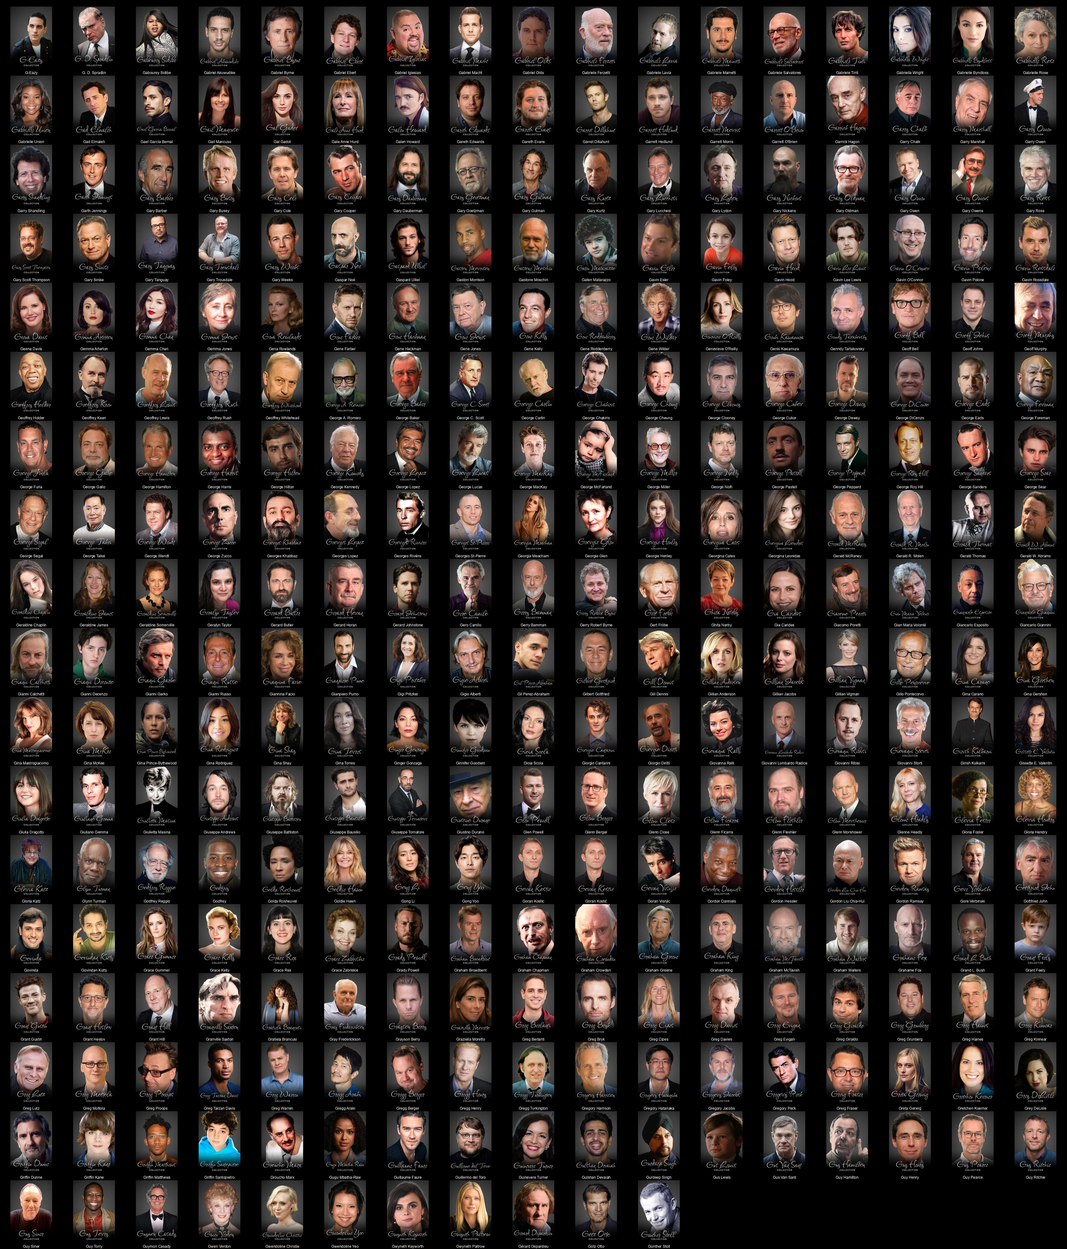
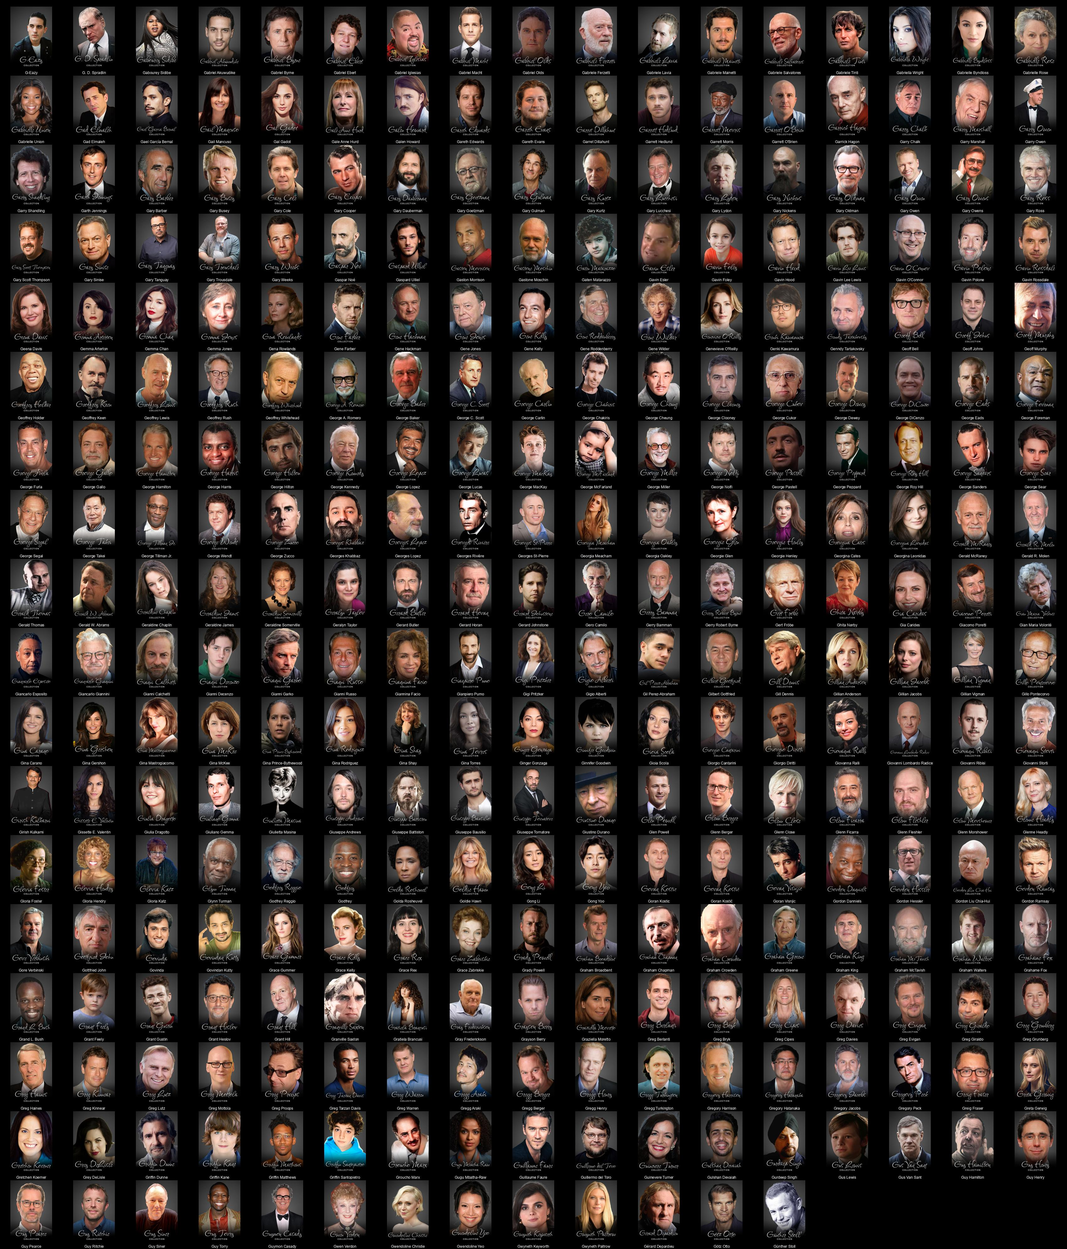
Readme Update

Changed region(s): [[0.0, 0.3739, 0.9976, 1.0]]

diff --git a/README.md b/README.md
@@ -1,15 +1,16 @@
-# Plex Meta Manager People - Signature (signature) (8616 Images)
+# Plex Meta Manager People - Signature (signature) (8627 Images)
 
 <details><summary><a href="'">' (1 Images)</a></summary>
 
 * ['Weird Al' Yankovic](https://raw.githubusercontent.com/meisnate12/Plex-Meta-Manager-People-signature/master/'/Images/%27Weird%20Al%27%20Yankovic.jpg)
 </details>
-<details><summary><a href="A">A (710 Images)</a></summary>
+<details><summary><a href="A">A (711 Images)</a></summary>
 
 * [Aamir Khan](https://raw.githubusercontent.com/meisnate12/Plex-Meta-Manager-People-signature/master/A/Images/Aamir%20Khan.jpg)
 * [Aanand L. Rai](https://raw.githubusercontent.com/meisnate12/Plex-Meta-Manager-People-signature/master/A/Images/Aanand%20L.%20Rai.jpg)
 * [Aaron Ashmore](https://raw.githubusercontent.com/meisnate12/Plex-Meta-Manager-People-signature/master/A/Images/Aaron%20Ashmore.jpg)
 * [Aaron Beelner](https://raw.githubusercontent.com/meisnate12/Plex-Meta-Manager-People-signature/master/A/Images/Aaron%20Beelner.jpg)
+* [Aaron Burns](https://raw.githubusercontent.com/meisnate12/Plex-Meta-Manager-People-signature/master/A/Images/Aaron%20Burns.jpg)
 * [Aaron Eckhart](https://raw.githubusercontent.com/meisnate12/Plex-Meta-Manager-People-signature/master/A/Images/Aaron%20Eckhart.jpg)
 * [Aaron Haynes](https://raw.githubusercontent.com/meisnate12/Plex-Meta-Manager-People-signature/master/A/Images/Aaron%20Haynes.jpg)
 * [Aaron Hilmer](https://raw.githubusercontent.com/meisnate12/Plex-Meta-Manager-People-signature/master/A/Images/Aaron%20Hilmer.jpg)
@@ -2812,7 +2813,7 @@
 * [Fritz Lang](https://raw.githubusercontent.com/meisnate12/Plex-Meta-Manager-People-signature/master/F/Images/Fritz%20Lang.jpg)
 * [Frédéric North](https://raw.githubusercontent.com/meisnate12/Plex-Meta-Manager-People-signature/master/F/Images/Fr%C3%A9d%C3%A9ric%20North.jpg)
 </details>
-<details><summary><a href="G">G (300 Images)</a></summary>
+<details><summary><a href="G">G (302 Images)</a></summary>
 
 * [G-Eazy](https://raw.githubusercontent.com/meisnate12/Plex-Meta-Manager-People-signature/master/G/Images/G-Eazy.jpg)
 * [G. D. Spradlin](https://raw.githubusercontent.com/meisnate12/Plex-Meta-Manager-People-signature/master/G/Images/G.%20D.%20Spradlin.jpg)
@@ -2935,6 +2936,7 @@
 * [George Sear](https://raw.githubusercontent.com/meisnate12/Plex-Meta-Manager-People-signature/master/G/Images/George%20Sear.jpg)
 * [George Segal](https://raw.githubusercontent.com/meisnate12/Plex-Meta-Manager-People-signature/master/G/Images/George%20Segal.jpg)
 * [George Takei](https://raw.githubusercontent.com/meisnate12/Plex-Meta-Manager-People-signature/master/G/Images/George%20Takei.jpg)
+* [George Tillman Jr.](https://raw.githubusercontent.com/meisnate12/Plex-Meta-Manager-People-signature/master/G/Images/George%20Tillman%20Jr..jpg)
 * [George Wendt](https://raw.githubusercontent.com/meisnate12/Plex-Meta-Manager-People-signature/master/G/Images/George%20Wendt.jpg)
 * [George Zucco](https://raw.githubusercontent.com/meisnate12/Plex-Meta-Manager-People-signature/master/G/Images/George%20Zucco.jpg)
 * [Georges Khabbaz](https://raw.githubusercontent.com/meisnate12/Plex-Meta-Manager-People-signature/master/G/Images/Georges%20Khabbaz.jpg)
@@ -2942,6 +2944,7 @@
 * [Georges Rivière](https://raw.githubusercontent.com/meisnate12/Plex-Meta-Manager-People-signature/master/G/Images/Georges%20Rivi%C3%A8re.jpg)
 * [Georges St-Pierre](https://raw.githubusercontent.com/meisnate12/Plex-Meta-Manager-People-signature/master/G/Images/Georges%20St-Pierre.jpg)
 * [Georgia Meacham](https://raw.githubusercontent.com/meisnate12/Plex-Meta-Manager-People-signature/master/G/Images/Georgia%20Meacham.jpg)
+* [Georgia Oakley](https://raw.githubusercontent.com/meisnate12/Plex-Meta-Manager-People-signature/master/G/Images/Georgia%20Oakley.jpg)
 * [Georgie Glen](https://raw.githubusercontent.com/meisnate12/Plex-Meta-Manager-People-signature/master/G/Images/Georgie%20Glen.jpg)
 * [Georgie Henley](https://raw.githubusercontent.com/meisnate12/Plex-Meta-Manager-People-signature/master/G/Images/Georgie%20Henley.jpg)
 * [Georgina Cates](https://raw.githubusercontent.com/meisnate12/Plex-Meta-Manager-People-signature/master/G/Images/Georgina%20Cates.jpg)
@@ -3422,7 +3425,7 @@
 * [Izaac Wang](https://raw.githubusercontent.com/meisnate12/Plex-Meta-Manager-People-signature/master/I/Images/Izaac%20Wang.jpg)
 * [Izabella Scorupco](https://raw.githubusercontent.com/meisnate12/Plex-Meta-Manager-People-signature/master/I/Images/Izabella%20Scorupco.jpg)
 </details>
-<details><summary><a href="J">J (1067 Images)</a></summary>
+<details><summary><a href="J">J (1069 Images)</a></summary>
 
 * [J'Dvonte](https://raw.githubusercontent.com/meisnate12/Plex-Meta-Manager-People-signature/master/J/Images/J%27Dvonte.jpg)
 * [J. A. Bayona](https://raw.githubusercontent.com/meisnate12/Plex-Meta-Manager-People-signature/master/J/Images/J.%20A.%20Bayona.jpg)
@@ -3573,6 +3576,7 @@
 * [James Marsden](https://raw.githubusercontent.com/meisnate12/Plex-Meta-Manager-People-signature/master/J/Images/James%20Marsden.jpg)
 * [James Marsters](https://raw.githubusercontent.com/meisnate12/Plex-Meta-Manager-People-signature/master/J/Images/James%20Marsters.jpg)
 * [James Mason](https://raw.githubusercontent.com/meisnate12/Plex-Meta-Manager-People-signature/master/J/Images/James%20Mason.jpg)
+* [James May](https://raw.githubusercontent.com/meisnate12/Plex-Meta-Manager-People-signature/master/J/Images/James%20May.jpg)
 * [James McAvoy](https://raw.githubusercontent.com/meisnate12/Plex-Meta-Manager-People-signature/master/J/Images/James%20McAvoy.jpg)
 * [James McGrath](https://raw.githubusercontent.com/meisnate12/Plex-Meta-Manager-People-signature/master/J/Images/James%20McGrath.jpg)
 * [James McTeigue](https://raw.githubusercontent.com/meisnate12/Plex-Meta-Manager-People-signature/master/J/Images/James%20McTeigue.jpg)
@@ -4485,6 +4489,7 @@
 * [Justin Roiland](https://raw.githubusercontent.com/meisnate12/Plex-Meta-Manager-People-signature/master/J/Images/Justin%20Roiland.jpg)
 * [Justin Theroux](https://raw.githubusercontent.com/meisnate12/Plex-Meta-Manager-People-signature/master/J/Images/Justin%20Theroux.jpg)
 * [Justin Timberlake](https://raw.githubusercontent.com/meisnate12/Plex-Meta-Manager-People-signature/master/J/Images/Justin%20Timberlake.jpg)
+* [Justine Triet](https://raw.githubusercontent.com/meisnate12/Plex-Meta-Manager-People-signature/master/J/Images/Justine%20Triet.jpg)
 * [Justyn Shippelt](https://raw.githubusercontent.com/meisnate12/Plex-Meta-Manager-People-signature/master/J/Images/Justyn%20Shippelt.jpg)
 * [Jyoti Deshpande](https://raw.githubusercontent.com/meisnate12/Plex-Meta-Manager-People-signature/master/J/Images/Jyoti%20Deshpande.jpg)
 * [Jóhannes Haukur Jóhannesson](https://raw.githubusercontent.com/meisnate12/Plex-Meta-Manager-People-signature/master/J/Images/J%C3%B3hannes%20Haukur%20J%C3%B3hannesson.jpg)
@@ -4492,7 +4497,7 @@
 * [Jürgen Prochnow](https://raw.githubusercontent.com/meisnate12/Plex-Meta-Manager-People-signature/master/J/Images/J%C3%BCrgen%20Prochnow.jpg)
 * [Jūzō Itami](https://raw.githubusercontent.com/meisnate12/Plex-Meta-Manager-People-signature/master/J/Images/J%C5%ABz%C5%8D%20Itami.jpg)
 </details>
-<details><summary><a href="K">K (383 Images)</a></summary>
+<details><summary><a href="K">K (384 Images)</a></summary>
 
 * [K Raghavendra Rao](https://raw.githubusercontent.com/meisnate12/Plex-Meta-Manager-People-signature/master/K/Images/K%20Raghavendra%20Rao.jpg)
 * [K.J. Apa](https://raw.githubusercontent.com/meisnate12/Plex-Meta-Manager-People-signature/master/K/Images/K.J.%20Apa.jpg)
@@ -4672,6 +4677,7 @@
 * [Ken Hudson Campbell](https://raw.githubusercontent.com/meisnate12/Plex-Meta-Manager-People-signature/master/K/Images/Ken%20Hudson%20Campbell.jpg)
 * [Ken Jeong](https://raw.githubusercontent.com/meisnate12/Plex-Meta-Manager-People-signature/master/K/Images/Ken%20Jeong.jpg)
 * [Ken Kilpatrick](https://raw.githubusercontent.com/meisnate12/Plex-Meta-Manager-People-signature/master/K/Images/Ken%20Kilpatrick.jpg)
+* [Ken Leung](https://raw.githubusercontent.com/meisnate12/Plex-Meta-Manager-People-signature/master/K/Images/Ken%20Leung.jpg)
 * [Ken Loach](https://raw.githubusercontent.com/meisnate12/Plex-Meta-Manager-People-signature/master/K/Images/Ken%20Loach.jpg)
 * [Ken Marino](https://raw.githubusercontent.com/meisnate12/Plex-Meta-Manager-People-signature/master/K/Images/Ken%20Marino.jpg)
 * [Ken Page](https://raw.githubusercontent.com/meisnate12/Plex-Meta-Manager-People-signature/master/K/Images/Ken%20Page.jpg)
@@ -5260,7 +5266,7 @@
 * [Léa Seydoux](https://raw.githubusercontent.com/meisnate12/Plex-Meta-Manager-People-signature/master/L/Images/L%C3%A9a%20Seydoux.jpg)
 * [Lúcio Andrey](https://raw.githubusercontent.com/meisnate12/Plex-Meta-Manager-People-signature/master/L/Images/L%C3%BAcio%20Andrey.jpg)
 </details>
-<details><summary><a href="M">M (785 Images)</a></summary>
+<details><summary><a href="M">M (787 Images)</a></summary>
 
 * [M'laah Kaur Singh](https://raw.githubusercontent.com/meisnate12/Plex-Meta-Manager-People-signature/master/M/Images/M%27laah%20Kaur%20Singh.jpg)
 * [M. Emmet Walsh](https://raw.githubusercontent.com/meisnate12/Plex-Meta-Manager-People-signature/master/M/Images/M.%20Emmet%20Walsh.jpg)
@@ -5600,6 +5606,7 @@
 * [Matt Helm](https://raw.githubusercontent.com/meisnate12/Plex-Meta-Manager-People-signature/master/M/Images/Matt%20Helm.jpg)
 * [Matt Holloway](https://raw.githubusercontent.com/meisnate12/Plex-Meta-Manager-People-signature/master/M/Images/Matt%20Holloway.jpg)
 * [Matt Hughes](https://raw.githubusercontent.com/meisnate12/Plex-Meta-Manager-People-signature/master/M/Images/Matt%20Hughes.jpg)
+* [Matt Johnson](https://raw.githubusercontent.com/meisnate12/Plex-Meta-Manager-People-signature/master/M/Images/Matt%20Johnson.jpg)
 * [Matt Jones](https://raw.githubusercontent.com/meisnate12/Plex-Meta-Manager-People-signature/master/M/Images/Matt%20Jones.jpg)
 * [Matt Keeslar](https://raw.githubusercontent.com/meisnate12/Plex-Meta-Manager-People-signature/master/M/Images/Matt%20Keeslar.jpg)
 * [Matt LeBlanc](https://raw.githubusercontent.com/meisnate12/Plex-Meta-Manager-People-signature/master/M/Images/Matt%20LeBlanc.jpg)
@@ -5677,6 +5684,7 @@
 * [Maya Hawke](https://raw.githubusercontent.com/meisnate12/Plex-Meta-Manager-People-signature/master/M/Images/Maya%20Hawke.jpg)
 * [Maya Rudolph](https://raw.githubusercontent.com/meisnate12/Plex-Meta-Manager-People-signature/master/M/Images/Maya%20Rudolph.jpg)
 * [Maya Saroya](https://raw.githubusercontent.com/meisnate12/Plex-Meta-Manager-People-signature/master/M/Images/Maya%20Saroya.jpg)
+* [Maynard James Keenan](https://raw.githubusercontent.com/meisnate12/Plex-Meta-Manager-People-signature/master/M/Images/Maynard%20James%20Keenan.jpg)
 * [Mayumi Tanaka](https://raw.githubusercontent.com/meisnate12/Plex-Meta-Manager-People-signature/master/M/Images/Mayumi%20Tanaka.jpg)
 * [Maz Jobrani](https://raw.githubusercontent.com/meisnate12/Plex-Meta-Manager-People-signature/master/M/Images/Maz%20Jobrani.jpg)
 * [McG](https://raw.githubusercontent.com/meisnate12/Plex-Meta-Manager-People-signature/master/M/Images/McG.jpg)
@@ -6728,7 +6736,7 @@
 * [Quinn Duffy](https://raw.githubusercontent.com/meisnate12/Plex-Meta-Manager-People-signature/master/Q/Images/Quinn%20Duffy.jpg)
 * [Quinton Jackson](https://raw.githubusercontent.com/meisnate12/Plex-Meta-Manager-People-signature/master/Q/Images/Quinton%20Jackson.jpg)
 </details>
-<details><summary><a href="R">R (557 Images)</a></summary>
+<details><summary><a href="R">R (560 Images)</a></summary>
 
 * [R. Lee Ermey](https://raw.githubusercontent.com/meisnate12/Plex-Meta-Manager-People-signature/master/R/Images/R.%20Lee%20Ermey.jpg)
 * [R. Madhavan](https://raw.githubusercontent.com/meisnate12/Plex-Meta-Manager-People-signature/master/R/Images/R.%20Madhavan.jpg)
@@ -7130,6 +7138,8 @@
 * [Roger Avary](https://raw.githubusercontent.com/meisnate12/Plex-Meta-Manager-People-signature/master/R/Images/Roger%20Avary.jpg)
 * [Roger Birnbaum](https://raw.githubusercontent.com/meisnate12/Plex-Meta-Manager-People-signature/master/R/Images/Roger%20Birnbaum.jpg)
 * [Roger Carel](https://raw.githubusercontent.com/meisnate12/Plex-Meta-Manager-People-signature/master/R/Images/Roger%20Carel.jpg)
+* [Roger Christian](https://raw.githubusercontent.com/meisnate12/Plex-Meta-Manager-People-signature/master/R/Images/Roger%20Christian.jpg)
+* [Roger Christiansen](https://raw.githubusercontent.com/meisnate12/Plex-Meta-Manager-People-signature/master/R/Images/Roger%20Christiansen.jpg)
 * [Roger Corman](https://raw.githubusercontent.com/meisnate12/Plex-Meta-Manager-People-signature/master/R/Images/Roger%20Corman.jpg)
 * [Roger Craig Smith](https://raw.githubusercontent.com/meisnate12/Plex-Meta-Manager-People-signature/master/R/Images/Roger%20Craig%20Smith.jpg)
 * [Roger Cross](https://raw.githubusercontent.com/meisnate12/Plex-Meta-Manager-People-signature/master/R/Images/Roger%20Cross.jpg)
@@ -7208,6 +7218,7 @@
 * [Ross McCall](https://raw.githubusercontent.com/meisnate12/Plex-Meta-Manager-People-signature/master/R/Images/Ross%20McCall.jpg)
 * [Ross Noble](https://raw.githubusercontent.com/meisnate12/Plex-Meta-Manager-People-signature/master/R/Images/Ross%20Noble.jpg)
 * [Rossella Falk](https://raw.githubusercontent.com/meisnate12/Plex-Meta-Manager-People-signature/master/R/Images/Rossella%20Falk.jpg)
+* [Rosy McEwen](https://raw.githubusercontent.com/meisnate12/Plex-Meta-Manager-People-signature/master/R/Images/Rosy%20McEwen.jpg)
 * [Rowan Atkinson](https://raw.githubusercontent.com/meisnate12/Plex-Meta-Manager-People-signature/master/R/Images/Rowan%20Atkinson.jpg)
 * [Rowan Blanchard](https://raw.githubusercontent.com/meisnate12/Plex-Meta-Manager-People-signature/master/R/Images/Rowan%20Blanchard.jpg)
 * [Rowan Joffe](https://raw.githubusercontent.com/meisnate12/Plex-Meta-Manager-People-signature/master/R/Images/Rowan%20Joffe.jpg)

diff --git a/R/README.md b/R/README.md
@@ -1,4 +1,4 @@
-# Plex Meta Manager People - Signature (signature) - R (557 Images)
+# Plex Meta Manager People - Signature (signature) - R (560 Images)
 ![Grid](grid.jpg)
 
 * [R. Lee Ermey](https://raw.githubusercontent.com/meisnate12/Plex-Meta-Manager-People-signature/master/R/Images/R.%20Lee%20Ermey.jpg)
@@ -401,6 +401,8 @@
 * [Roger Avary](https://raw.githubusercontent.com/meisnate12/Plex-Meta-Manager-People-signature/master/R/Images/Roger%20Avary.jpg)
 * [Roger Birnbaum](https://raw.githubusercontent.com/meisnate12/Plex-Meta-Manager-People-signature/master/R/Images/Roger%20Birnbaum.jpg)
 * [Roger Carel](https://raw.githubusercontent.com/meisnate12/Plex-Meta-Manager-People-signature/master/R/Images/Roger%20Carel.jpg)
+* [Roger Christian](https://raw.githubusercontent.com/meisnate12/Plex-Meta-Manager-People-signature/master/R/Images/Roger%20Christian.jpg)
+* [Roger Christiansen](https://raw.githubusercontent.com/meisnate12/Plex-Meta-Manager-People-signature/master/R/Images/Roger%20Christiansen.jpg)
 * [Roger Corman](https://raw.githubusercontent.com/meisnate12/Plex-Meta-Manager-People-signature/master/R/Images/Roger%20Corman.jpg)
 * [Roger Craig Smith](https://raw.githubusercontent.com/meisnate12/Plex-Meta-Manager-People-signature/master/R/Images/Roger%20Craig%20Smith.jpg)
 * [Roger Cross](https://raw.githubusercontent.com/meisnate12/Plex-Meta-Manager-People-signature/master/R/Images/Roger%20Cross.jpg)
@@ -479,6 +481,7 @@
 * [Ross McCall](https://raw.githubusercontent.com/meisnate12/Plex-Meta-Manager-People-signature/master/R/Images/Ross%20McCall.jpg)
 * [Ross Noble](https://raw.githubusercontent.com/meisnate12/Plex-Meta-Manager-People-signature/master/R/Images/Ross%20Noble.jpg)
 * [Rossella Falk](https://raw.githubusercontent.com/meisnate12/Plex-Meta-Manager-People-signature/master/R/Images/Rossella%20Falk.jpg)
+* [Rosy McEwen](https://raw.githubusercontent.com/meisnate12/Plex-Meta-Manager-People-signature/master/R/Images/Rosy%20McEwen.jpg)
 * [Rowan Atkinson](https://raw.githubusercontent.com/meisnate12/Plex-Meta-Manager-People-signature/master/R/Images/Rowan%20Atkinson.jpg)
 * [Rowan Blanchard](https://raw.githubusercontent.com/meisnate12/Plex-Meta-Manager-People-signature/master/R/Images/Rowan%20Blanchard.jpg)
 * [Rowan Joffe](https://raw.githubusercontent.com/meisnate12/Plex-Meta-Manager-People-signature/master/R/Images/Rowan%20Joffe.jpg)

diff --git a/J/README.md b/J/README.md
@@ -1,4 +1,4 @@
-# Plex Meta Manager People - Signature (signature) - J (1067 Images)
+# Plex Meta Manager People - Signature (signature) - J (1069 Images)
 ![Grid](grid.jpg)
 
 * [J'Dvonte](https://raw.githubusercontent.com/meisnate12/Plex-Meta-Manager-People-signature/master/J/Images/J%27Dvonte.jpg)
@@ -150,6 +150,7 @@
 * [James Marsden](https://raw.githubusercontent.com/meisnate12/Plex-Meta-Manager-People-signature/master/J/Images/James%20Marsden.jpg)
 * [James Marsters](https://raw.githubusercontent.com/meisnate12/Plex-Meta-Manager-People-signature/master/J/Images/James%20Marsters.jpg)
 * [James Mason](https://raw.githubusercontent.com/meisnate12/Plex-Meta-Manager-People-signature/master/J/Images/James%20Mason.jpg)
+* [James May](https://raw.githubusercontent.com/meisnate12/Plex-Meta-Manager-People-signature/master/J/Images/James%20May.jpg)
 * [James McAvoy](https://raw.githubusercontent.com/meisnate12/Plex-Meta-Manager-People-signature/master/J/Images/James%20McAvoy.jpg)
 * [James McGrath](https://raw.githubusercontent.com/meisnate12/Plex-Meta-Manager-People-signature/master/J/Images/James%20McGrath.jpg)
 * [James McTeigue](https://raw.githubusercontent.com/meisnate12/Plex-Meta-Manager-People-signature/master/J/Images/James%20McTeigue.jpg)
@@ -1062,6 +1063,7 @@
 * [Justin Roiland](https://raw.githubusercontent.com/meisnate12/Plex-Meta-Manager-People-signature/master/J/Images/Justin%20Roiland.jpg)
 * [Justin Theroux](https://raw.githubusercontent.com/meisnate12/Plex-Meta-Manager-People-signature/master/J/Images/Justin%20Theroux.jpg)
 * [Justin Timberlake](https://raw.githubusercontent.com/meisnate12/Plex-Meta-Manager-People-signature/master/J/Images/Justin%20Timberlake.jpg)
+* [Justine Triet](https://raw.githubusercontent.com/meisnate12/Plex-Meta-Manager-People-signature/master/J/Images/Justine%20Triet.jpg)
 * [Justyn Shippelt](https://raw.githubusercontent.com/meisnate12/Plex-Meta-Manager-People-signature/master/J/Images/Justyn%20Shippelt.jpg)
 * [Jyoti Deshpande](https://raw.githubusercontent.com/meisnate12/Plex-Meta-Manager-People-signature/master/J/Images/Jyoti%20Deshpande.jpg)
 * [Jóhannes Haukur Jóhannesson](https://raw.githubusercontent.com/meisnate12/Plex-Meta-Manager-People-signature/master/J/Images/J%C3%B3hannes%20Haukur%20J%C3%B3hannesson.jpg)

diff --git a/G/README.md b/G/README.md
@@ -1,4 +1,4 @@
-# Plex Meta Manager People - Signature (signature) - G (300 Images)
+# Plex Meta Manager People - Signature (signature) - G (302 Images)
 ![Grid](grid.jpg)
 
 * [G-Eazy](https://raw.githubusercontent.com/meisnate12/Plex-Meta-Manager-People-signature/master/G/Images/G-Eazy.jpg)
@@ -122,6 +122,7 @@
 * [George Sear](https://raw.githubusercontent.com/meisnate12/Plex-Meta-Manager-People-signature/master/G/Images/George%20Sear.jpg)
 * [George Segal](https://raw.githubusercontent.com/meisnate12/Plex-Meta-Manager-People-signature/master/G/Images/George%20Segal.jpg)
 * [George Takei](https://raw.githubusercontent.com/meisnate12/Plex-Meta-Manager-People-signature/master/G/Images/George%20Takei.jpg)
+* [George Tillman Jr.](https://raw.githubusercontent.com/meisnate12/Plex-Meta-Manager-People-signature/master/G/Images/George%20Tillman%20Jr..jpg)
 * [George Wendt](https://raw.githubusercontent.com/meisnate12/Plex-Meta-Manager-People-signature/master/G/Images/George%20Wendt.jpg)
 * [George Zucco](https://raw.githubusercontent.com/meisnate12/Plex-Meta-Manager-People-signature/master/G/Images/George%20Zucco.jpg)
 * [Georges Khabbaz](https://raw.githubusercontent.com/meisnate12/Plex-Meta-Manager-People-signature/master/G/Images/Georges%20Khabbaz.jpg)
@@ -129,6 +130,7 @@
 * [Georges Rivière](https://raw.githubusercontent.com/meisnate12/Plex-Meta-Manager-People-signature/master/G/Images/Georges%20Rivi%C3%A8re.jpg)
 * [Georges St-Pierre](https://raw.githubusercontent.com/meisnate12/Plex-Meta-Manager-People-signature/master/G/Images/Georges%20St-Pierre.jpg)
 * [Georgia Meacham](https://raw.githubusercontent.com/meisnate12/Plex-Meta-Manager-People-signature/master/G/Images/Georgia%20Meacham.jpg)
+* [Georgia Oakley](https://raw.githubusercontent.com/meisnate12/Plex-Meta-Manager-People-signature/master/G/Images/Georgia%20Oakley.jpg)
 * [Georgie Glen](https://raw.githubusercontent.com/meisnate12/Plex-Meta-Manager-People-signature/master/G/Images/Georgie%20Glen.jpg)
 * [Georgie Henley](https://raw.githubusercontent.com/meisnate12/Plex-Meta-Manager-People-signature/master/G/Images/Georgie%20Henley.jpg)
 * [Georgina Cates](https://raw.githubusercontent.com/meisnate12/Plex-Meta-Manager-People-signature/master/G/Images/Georgina%20Cates.jpg)

diff --git a/M/README.md b/M/README.md
@@ -1,4 +1,4 @@
-# Plex Meta Manager People - Signature (signature) - M (785 Images)
+# Plex Meta Manager People - Signature (signature) - M (787 Images)
 ![Grid](grid.jpg)
 
 * [M'laah Kaur Singh](https://raw.githubusercontent.com/meisnate12/Plex-Meta-Manager-People-signature/master/M/Images/M%27laah%20Kaur%20Singh.jpg)
@@ -339,6 +339,7 @@
 * [Matt Helm](https://raw.githubusercontent.com/meisnate12/Plex-Meta-Manager-People-signature/master/M/Images/Matt%20Helm.jpg)
 * [Matt Holloway](https://raw.githubusercontent.com/meisnate12/Plex-Meta-Manager-People-signature/master/M/Images/Matt%20Holloway.jpg)
 * [Matt Hughes](https://raw.githubusercontent.com/meisnate12/Plex-Meta-Manager-People-signature/master/M/Images/Matt%20Hughes.jpg)
+* [Matt Johnson](https://raw.githubusercontent.com/meisnate12/Plex-Meta-Manager-People-signature/master/M/Images/Matt%20Johnson.jpg)
 * [Matt Jones](https://raw.githubusercontent.com/meisnate12/Plex-Meta-Manager-People-signature/master/M/Images/Matt%20Jones.jpg)
 * [Matt Keeslar](https://raw.githubusercontent.com/meisnate12/Plex-Meta-Manager-People-signature/master/M/Images/Matt%20Keeslar.jpg)
 * [Matt LeBlanc](https://raw.githubusercontent.com/meisnate12/Plex-Meta-Manager-People-signature/master/M/Images/Matt%20LeBlanc.jpg)
@@ -416,6 +417,7 @@
 * [Maya Hawke](https://raw.githubusercontent.com/meisnate12/Plex-Meta-Manager-People-signature/master/M/Images/Maya%20Hawke.jpg)
 * [Maya Rudolph](https://raw.githubusercontent.com/meisnate12/Plex-Meta-Manager-People-signature/master/M/Images/Maya%20Rudolph.jpg)
 * [Maya Saroya](https://raw.githubusercontent.com/meisnate12/Plex-Meta-Manager-People-signature/master/M/Images/Maya%20Saroya.jpg)
+* [Maynard James Keenan](https://raw.githubusercontent.com/meisnate12/Plex-Meta-Manager-People-signature/master/M/Images/Maynard%20James%20Keenan.jpg)
 * [Mayumi Tanaka](https://raw.githubusercontent.com/meisnate12/Plex-Meta-Manager-People-signature/master/M/Images/Mayumi%20Tanaka.jpg)
 * [Maz Jobrani](https://raw.githubusercontent.com/meisnate12/Plex-Meta-Manager-People-signature/master/M/Images/Maz%20Jobrani.jpg)
 * [McG](https://raw.githubusercontent.com/meisnate12/Plex-Meta-Manager-People-signature/master/M/Images/McG.jpg)

diff --git a/K/README.md b/K/README.md
@@ -1,4 +1,4 @@
-# Plex Meta Manager People - Signature (signature) - K (383 Images)
+# Plex Meta Manager People - Signature (signature) - K (384 Images)
 ![Grid](grid.jpg)
 
 * [K Raghavendra Rao](https://raw.githubusercontent.com/meisnate12/Plex-Meta-Manager-People-signature/master/K/Images/K%20Raghavendra%20Rao.jpg)
@@ -179,6 +179,7 @@
 * [Ken Hudson Campbell](https://raw.githubusercontent.com/meisnate12/Plex-Meta-Manager-People-signature/master/K/Images/Ken%20Hudson%20Campbell.jpg)
 * [Ken Jeong](https://raw.githubusercontent.com/meisnate12/Plex-Meta-Manager-People-signature/master/K/Images/Ken%20Jeong.jpg)
 * [Ken Kilpatrick](https://raw.githubusercontent.com/meisnate12/Plex-Meta-Manager-People-signature/master/K/Images/Ken%20Kilpatrick.jpg)
+* [Ken Leung](https://raw.githubusercontent.com/meisnate12/Plex-Meta-Manager-People-signature/master/K/Images/Ken%20Leung.jpg)
 * [Ken Loach](https://raw.githubusercontent.com/meisnate12/Plex-Meta-Manager-People-signature/master/K/Images/Ken%20Loach.jpg)
 * [Ken Marino](https://raw.githubusercontent.com/meisnate12/Plex-Meta-Manager-People-signature/master/K/Images/Ken%20Marino.jpg)
 * [Ken Page](https://raw.githubusercontent.com/meisnate12/Plex-Meta-Manager-People-signature/master/K/Images/Ken%20Page.jpg)

diff --git a/A/README.md b/A/README.md
@@ -1,10 +1,11 @@
-# Plex Meta Manager People - Signature (signature) - A (710 Images)
+# Plex Meta Manager People - Signature (signature) - A (711 Images)
 ![Grid](grid.jpg)
 
 * [Aamir Khan](https://raw.githubusercontent.com/meisnate12/Plex-Meta-Manager-People-signature/master/A/Images/Aamir%20Khan.jpg)
 * [Aanand L. Rai](https://raw.githubusercontent.com/meisnate12/Plex-Meta-Manager-People-signature/master/A/Images/Aanand%20L.%20Rai.jpg)
 * [Aaron Ashmore](https://raw.githubusercontent.com/meisnate12/Plex-Meta-Manager-People-signature/master/A/Images/Aaron%20Ashmore.jpg)
 * [Aaron Beelner](https://raw.githubusercontent.com/meisnate12/Plex-Meta-Manager-People-signature/master/A/Images/Aaron%20Beelner.jpg)
+* [Aaron Burns](https://raw.githubusercontent.com/meisnate12/Plex-Meta-Manager-People-signature/master/A/Images/Aaron%20Burns.jpg)
 * [Aaron Eckhart](https://raw.githubusercontent.com/meisnate12/Plex-Meta-Manager-People-signature/master/A/Images/Aaron%20Eckhart.jpg)
 * [Aaron Haynes](https://raw.githubusercontent.com/meisnate12/Plex-Meta-Manager-People-signature/master/A/Images/Aaron%20Haynes.jpg)
 * [Aaron Hilmer](https://raw.githubusercontent.com/meisnate12/Plex-Meta-Manager-People-signature/master/A/Images/Aaron%20Hilmer.jpg)
